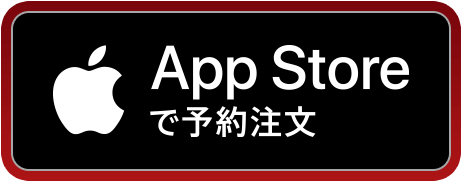
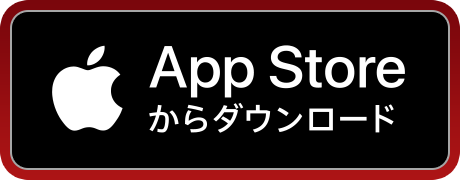
[update]step3用、配信後のボタン・テキスト変更

diff --git a/index.html b/index.html
@@ -39,11 +39,11 @@
                             <picture>
                                 <source media="(min-width:769px)" srcset="img/movie_img01_pc.png">
                                 <source media="(max-width:768px)" srcset="img/movie_img01_sp.png">
-                                <img src="img/movie_img01_pc.png" alt="事前登録受付中!!">
+                                <img src="img/movie_img01_pc.png" alt="好評配信中!!">
                             </picture>
                         </h2>
                         <div class="btn-block">
-                            <div class="apple"><a href="https://app.adjust.com/p1n44i4" target="_blank" rel="noopener noreferrer"><img src="img/cta_btn01.png" alt="App Storeで注文"></a></div>
+                            <div class="apple"><a href="https://app.adjust.com/p1n44i4" target="_blank" rel="noopener noreferrer"><img src="img/cta_btn01.png" alt="App Storeからダウンロード"></a></div>
                             <div class="google"><a href="https://app.adjust.com/p1n44i4" target="_blank" rel="noopener noreferrer"><img src="img/cta_btn02.png" alt="Google Playで手に入れよう"></a></div>
                         </div>
                     </div>
@@ -146,11 +146,11 @@
                             <picture>
                                 <source media="(min-width:769px)" srcset="img/cta_img01_pc.png">
                                 <source media="(max-width:768px)" srcset="img/cta_img01_sp.jpg">
-                                <img src="img/cta_img01_pc.png" alt="事前登録受付中!!">
+                                <img src="img/cta_img01_pc.png" alt="好評配信中!!">
                             </picture>
                         </h2>
                         <div class="btn-block">
-                            <div class="apple"><a href="https://app.adjust.com/p1n44i4" target="_blank" rel="noopener noreferrer"><img src="img/cta_btn01.png" alt="App Storeで注文"></a></div>
+                            <div class="apple"><a href="https://app.adjust.com/p1n44i4" target="_blank" rel="noopener noreferrer"><img src="img/cta_btn01.png" alt="App Storeからダウンロード"></a></div>
                             <div class="google"><a href="https://app.adjust.com/p1n44i4" target="_blank" rel="noopener noreferrer"><img src="img/cta_btn02.png" alt="Google Playで手に入れよう"></a></div>
                         </div>
                     </div>
